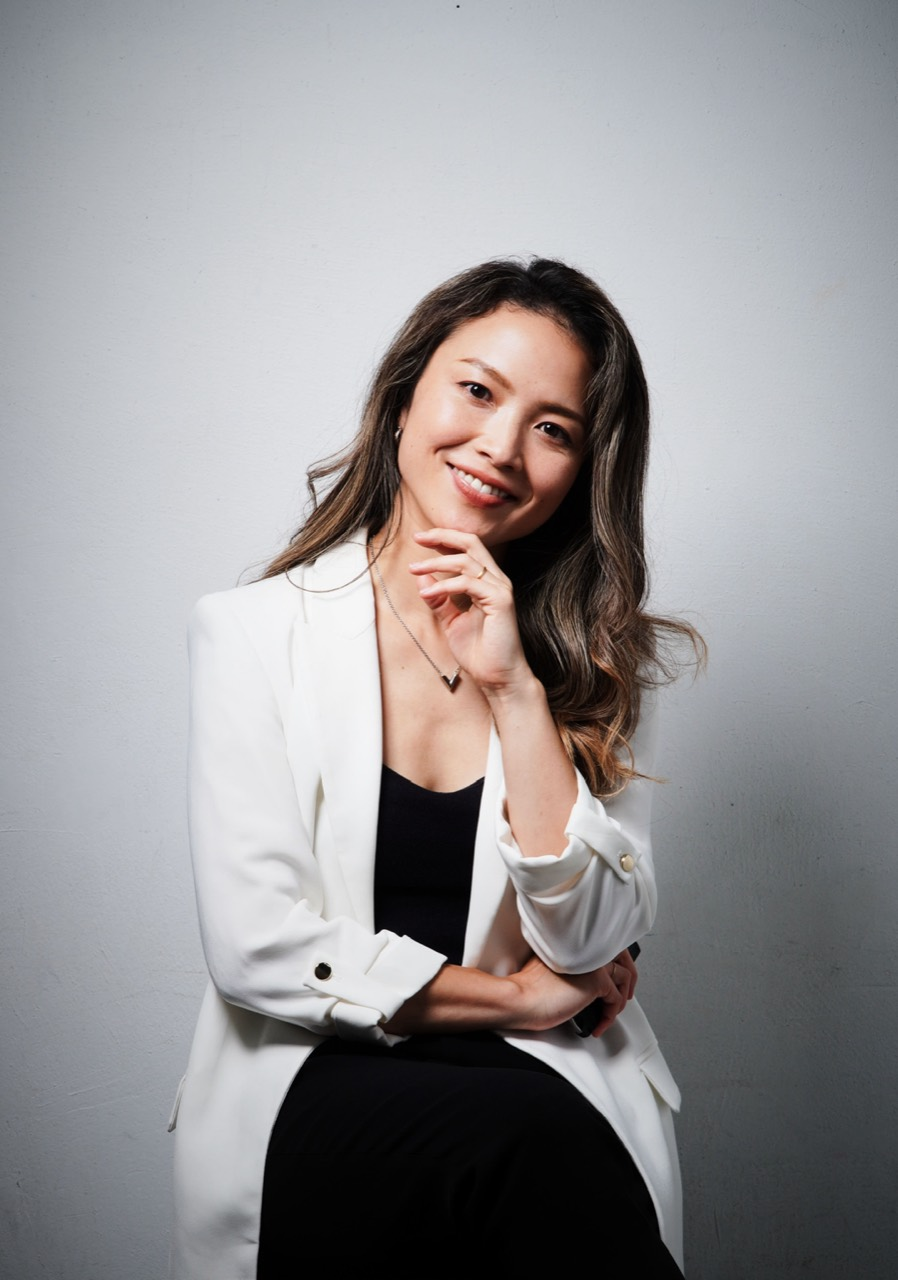
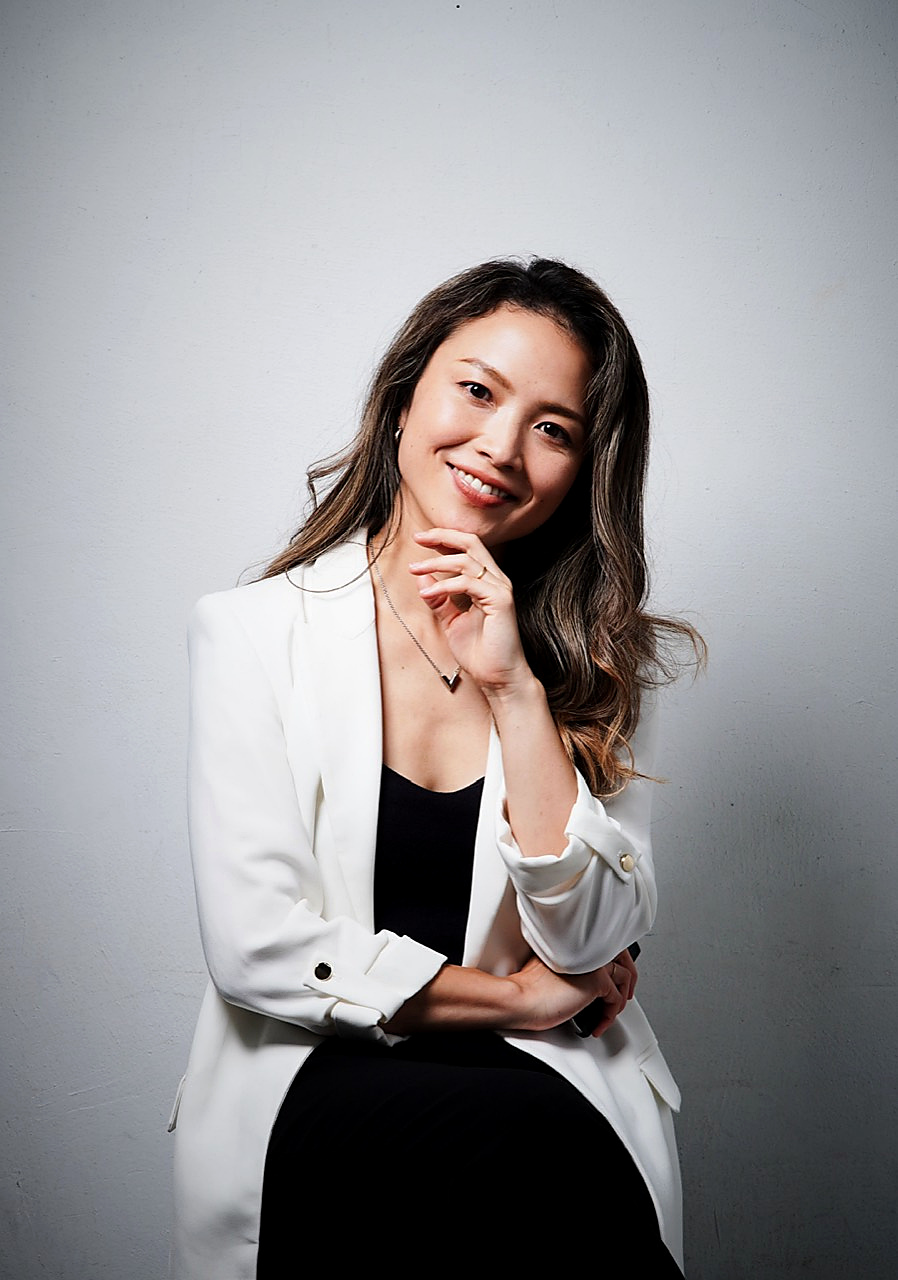
Add Yukiko Okuno ambassador and enhance portraits

diff --git a/ambassadors/yukiko-okuno/index.html b/ambassadors/yukiko-okuno/index.html
@@ -1,0 +1,134 @@
+<!doctype html>
+<html lang="ja">
+<head>
+  <meta charset="utf-8">
+  <meta name="viewport" content="width=device-width, initial-scale=1">
+  <title>奥野 由紀子 | Music Ambassador | Antica Music Academy</title>
+  <meta name="description" content="奥野 由紀子（Yukiko Okuno）のプロフィール。ANTICA Music Academy ミュージック・アンバサダー。">
+  <link rel="preconnect" href="https://fonts.googleapis.com">
+  <link rel="preconnect" href="https://fonts.gstatic.com" crossorigin>
+  <link href="https://fonts.googleapis.com/css2?family=Cormorant+Garamond:wght@400;600&family=Noto+Serif+JP:wght@400;500;600;700&display=swap" rel="stylesheet">
+  <style>
+    :root {
+      --bg: #f7f5f2;
+      --panel: #ffffff;
+      --panel-soft: #fffdf8;
+      --text: #2f2618;
+      --text-muted: #5e503e;
+      --line: #ddcfba;
+      --accent: #8b6b3f;
+      --accent-deep: #6f5532;
+      --max-width: 1120px;
+      --radius: 16px;
+      --shadow: 0 16px 38px rgba(70, 49, 20, 0.12);
+    }
+    * { box-sizing: border-box; }
+    html, body {
+      margin: 0;
+      padding: 0;
+      background:
+        radial-gradient(circle at 85% 0%, rgba(139, 107, 63, 0.1) 0%, rgba(139, 107, 63, 0) 42%),
+        linear-gradient(180deg, #ffffff 0%, #fbf8f3 100%);
+      color: var(--text);
+      font-family: "Noto Serif JP", "Hiragino Mincho ProN", "Yu Mincho", serif;
+      line-height: 1.75;
+      letter-spacing: 0.01em;
+    }
+    a { color: inherit; text-decoration: none; }
+    .container { width: min(100% - 40px, var(--max-width)); margin-inline: auto; }
+    .site-header {
+      position: sticky;
+      top: 0;
+      z-index: 20;
+      border-bottom: 1px solid rgba(139, 107, 63, 0.22);
+      background: rgba(255, 255, 255, 0.92);
+      backdrop-filter: blur(10px);
+    }
+    .header-inner { min-height: 76px; display: flex; align-items: center; justify-content: space-between; gap: 20px; }
+    .brand { display: inline-flex; align-items: center; gap: 12px; white-space: nowrap; }
+    .brand-icon { width: 28px; height: auto; display: block; }
+    .brand-wordmark { width: clamp(calc(140px + 12pt), calc(24vw + 12pt), calc(250px + 12pt)); height: auto; display: block; }
+    main { padding: 72px 0 94px; }
+    .profile-hero {
+      display: grid;
+      grid-template-columns: minmax(280px, 0.86fr) minmax(0, 1.14fr);
+      gap: 42px;
+      align-items: start;
+    }
+    .profile-photo {
+      overflow: hidden;
+      border: 1px solid rgba(139, 107, 63, 0.22);
+      border-radius: var(--radius);
+      background: var(--panel-soft);
+      box-shadow: var(--shadow);
+      aspect-ratio: 4 / 5;
+    }
+    .profile-photo img { width: 100%; height: 100%; object-fit: cover; object-position: center top; display: block; }
+    .photo-credit { margin: 10px 0 0; color: var(--text-muted); font-family: "Cormorant Garamond", serif; font-size: 0.86rem; letter-spacing: 0.04em; text-align: right; }
+    .profile-copy { padding-top: 10px; }
+    .eyebrow {
+      display: inline-block;
+      margin-bottom: 14px;
+      color: var(--accent);
+      font-family: "Cormorant Garamond", serif;
+      font-size: 1rem;
+      letter-spacing: 0.18em;
+      text-transform: uppercase;
+      font-style: italic;
+    }
+    h1 { margin: 0 0 6px; font-size: clamp(2.1rem, 4vw, 3.6rem); font-weight: 500; line-height: 1.35; letter-spacing: 0.06em; }
+    .name-en { display: block; margin-bottom: 22px; color: var(--accent); font-family: "Cormorant Garamond", serif; font-size: clamp(1.35rem, 2.8vw, 2rem); }
+    .official-link { display: inline-flex; margin-bottom: 24px; padding: 11px 20px; border-radius: 999px; color: #fff; background: linear-gradient(120deg, #9a7751, #7c6039); font-weight: 700; }
+    .tags { display: flex; flex-wrap: wrap; gap: 10px; margin: 0 0 28px; padding: 0; list-style: none; }
+    .tags li { border: 1px solid rgba(139, 107, 63, 0.34); border-radius: 999px; padding: 7px 13px; color: var(--accent); background: rgba(255, 253, 248, 0.82); font-size: 0.86rem; }
+    .profile-body { border-top: 1px solid var(--line); padding-top: 28px; }
+    .profile-body p { margin: 0 0 18px; color: var(--text-muted); font-size: 1rem; }
+    .back-link { display: inline-flex; margin-top: 18px; color: var(--accent); text-decoration: underline; text-underline-offset: 4px; }
+    @media (max-width: 860px) {
+      main { padding-top: 46px; }
+      .profile-hero { grid-template-columns: 1fr; gap: 28px; }
+      .profile-photo-wrap { max-width: 520px; width: 100%; margin-inline: auto; }
+    }
+    @media (max-width: 640px) {
+      .header-inner { min-height: 66px; }
+      .container { width: min(100% - 32px, var(--max-width)); }
+    }
+  </style>
+</head>
+<body>
+  <header class="site-header">
+    <div class="container header-inner">
+      <a class="brand" href="../../index.html" aria-label="Antica Music Academy トップページへ戻る">
+        <img class="brand-icon" src="../../LOGO.svg" alt="" aria-hidden="true">
+        <img class="brand-wordmark" src="../../アンティカ音楽学院.svg" alt="アンティカ音楽学院">
+      </a>
+    </div>
+  </header>
+
+  <main>
+    <div class="container profile-hero">
+      <div class="profile-photo-wrap">
+        <div class="profile-photo">
+          <img src="../../images/Yukiko_Okuno.jpg" alt="奥野 由紀子">
+        </div>
+        <p class="photo-credit">© Junichiro Matsuo</p>
+      </div>
+      <article class="profile-copy">
+        <span class="eyebrow">Music Ambassador</span>
+        <h1>奥野 由紀子</h1>
+        <span class="name-en">Yukiko Okuno</span>
+        <a class="official-link" href="https://lit.link/yukikookuno" target="_blank" rel="noopener noreferrer">公式サイトを見る ↗</a>
+        <ul class="tags"><li>Alto Flute</li><li>Flute</li><li>Orchestra</li><li>Community</li></ul>
+        <div class="profile-body">
+          <p>アルトフルート・スペシャリスト、東京女子管弦楽団フルート奏者。大阪府箕面市出身。神戸山手女子高等学校音楽科を経て、桐朋学園大学音楽学部卒業。同大学研究科、The Flute Studio（英国）修了。</p>
+          <p>第21回日本フルートコンヴェンションコンクール アルトフルート部門第1位、ブルガリア国立ソフィアフィルハーモニック管弦楽団コンチェルトマスタークラス第1位、J-FOSフルートアンサンブルコンクール第1位ならびに大賞など、多数の受賞歴を持つ。ブルガリア国立ソフィア管弦楽団、ウクライナキーウ交響楽団などとも共演。</p>
+          <p>これまでにフルートを阿野由希子、中野幸代、神田明、Trevor Wyeの各氏に師事。テレビ朝日「芸能人格付けチェック」やラジオ番組など、メディアにも積極的に出演している。</p>
+          <p>2019年に1stソロアルバム「Colour of Dream」を、2024年に2ndソロアルバム「Grace」をメジャーリリース。2024年から毎年アルトフルートのリサイタルを開催し、好評を得ている。</p>
+          <p>2025年より、フルートが中心となるバンド「ゆきんこバンド」を結成。ライブハウスのほか地域イベント等にも出演し、現在は関東圏を中心にソロ、アンサンブル、オーケストラ奏者として活動中。また、地域経済団体（青年会議所）にも所属し、地域活性化事業にも携わっている。</p>
+        </div>
+        <a class="back-link" href="../../index.html#endorsing-artists">トップページへ戻る</a>
+      </article>
+    </div>
+  </main>
+</body>
+</html>

diff --git a/index.html b/index.html
@@ -703,6 +703,18 @@
       transition: transform 0.45s ease;
     }
 
+    .artist-photo-credit {
+      position: absolute;
+      right: 10px;
+      bottom: 8px;
+      padding: 2px 7px;
+      background: rgba(255, 255, 255, 0.78);
+      color: var(--text-muted);
+      font-family: "Cormorant Garamond", serif;
+      font-size: 0.72rem;
+      line-height: 1;
+      letter-spacing: 0.04em;
+    }
     .artist-photo-focus--kayoko {
       transform: scale(1.44) translateY(-7%);
       transform-origin: center top;
@@ -718,6 +730,10 @@
       transform-origin: center top;
     }
 
+    .artist-photo-focus--yukiko {
+      transform: scale(1.28) translateY(-6%);
+      transform-origin: center top;
+    }
     .artist-photo-zoom {
     transform: scale(1.6) translateY(-8%);
     transform-origin: center top;
@@ -725,7 +741,6 @@
     .artist-card:hover .artist-photo img {
     transform: none;
 }
-
 .artist-card:hover .artist-photo img.artist-photo-focus--kayoko {
     transform: scale(1.44) translateY(-7%);
 }
@@ -738,6 +753,9 @@
     transform: scale(1.92) translateY(-22%);
 }
 
+    .artist-card:hover .artist-photo img.artist-photo-focus--yukiko {
+      transform: scale(1.28) translateY(-6%);
+    }
 .artist-card:hover .artist-photo-zoom {
     transform: scale(1.65) translateY(-6%);
 }
@@ -1230,6 +1248,21 @@
           <img class="ambassador-logo" src="images/music-ambassador-logo.png" alt="Music Ambassador">
         </div>
         <div class="artist-grid artist-grid--preview">
+          <!-- ARTIST: 奥野 由紀子 -->
+          <article class="artist-card">
+            <a class="artist-card-link" href="ambassadors/yukiko-okuno/">
+              <div class="artist-photo">
+                <img class="artist-photo-focus--yukiko" src="images/Yukiko_Okuno.jpg" alt="奥野 由紀子" loading="lazy">
+                <span class="artist-photo-credit">© Junichiro Matsuo</span>
+              </div>
+              <div class="artist-body">
+                <h3>奥野 由紀子</h3>
+                <span class="artist-name-en">Yukiko Okuno</span>
+                <p class="artist-bio">第21回日本フルートコンヴェンションコンクール アルトフルート部門第1位。東京女子管弦楽団フルート奏者として、国内外の共演、ソロアルバム、地域文化活動まで幅広く活躍しています。</p>
+                <span class="artist-link-label">View Profile</span>
+              </div>
+            </a>
+          </article>
           <!-- ARTIST: くどう きよこ -->
           <article class="artist-card">
             <a class="artist-card-link" href="ambassadors/kiyoko-kudo/">
@@ -1239,7 +1272,7 @@
               <div class="artist-body">
                 <h3>くどう きよこ</h3>
                 <span class="artist-name-en">Kiyoko Kudo</span>
-                <p class="artist-bio">ANTICA Music Academyの理念に共鳴し、音楽文化を通じた豊かな出会いと学びを支えるミュージック・アンバサダー。感性と表現を次世代へつなぐ活動を応援しています。</p>
+                <p class="artist-bio">文化放送スーパーオーディションでグランプリを受賞し、デュオ「アンティカ」でメジャーデビュー。音楽療法士としての知見も重ね、ボイスタッチセラピー®で感性と表現力を育みます。</p>
                 <span class="artist-link-label">View Profile</span>
               </div>
             </a>
@@ -1253,7 +1286,7 @@
               <div class="artist-body">
                 <h3>小宮 明日翔</h3>
                 <span class="artist-name-en">Asuka Komiya</span>
-                <p class="artist-bio">幼少期から子役としてTV・CM・映画・声優・ミュージカルで活躍。舞台芸術支援団体SASPの活動を通じ、子どもたちへ文化芸術の機会を届けています。</p>
+                <p class="artist-bio">ミュージカル「ピーターパン」「レ・ミゼラブル」などに出演。子役経験を原点に、一般社団法人SASP理事として子どもたちの舞台芸術体験を広げています。</p>
                 <span class="artist-link-label">View Profile</span>
               </div>
             </a>
@@ -1267,7 +1300,7 @@
               <div class="artist-body">
                 <h3>手塚 佳代子</h3>
                 <span class="artist-name-en">Kayoko Tezuka</span>
-                <p class="artist-bio">幼少期よりピアノ・バレエ・声楽を学び、舞台・ミュージカル・教育活動まで幅広く活躍。美しい日本語や表現の力を次世代へ伝えるアーティストです。</p>
+                <p class="artist-bio">劇団四季で『美女と野獣』などディズニー作品を中心に出演。国連クラシックライブ主演や全国の児童指導など、舞台表現と教育の両面で活躍しています。</p>
                 <span class="artist-link-label">View Profile</span>
               </div>
             </a>
@@ -1281,7 +1314,7 @@
               <div class="artist-body">
                 <h3>富永 峻</h3>
                 <span class="artist-name-en">Shun Tominaga</span>
-                <p class="artist-bio">欧州で研鑽を積んだ日本人ピアニスト。ソロ、オペラ伴奏、室内楽、舞台出演など幅広く活動し、公開レッスンや室内楽指導にも力を注いでいます。</p>
+                <p class="artist-bio">欧州で研鑽を積み、ソロ、オペラ伴奏、室内楽、舞台出演まで幅広く活動するピアニスト。聴く人の感情に寄り添う音色と誠実な音楽性で表現を届けます。</p>
                 <span class="artist-link-label">View Profile</span>
               </div>
             </a>
@@ -1295,7 +1328,7 @@
               <div class="artist-body">
                 <h3>増田 香穂</h3>
                 <span class="artist-name-en">Kaho Masuda</span>
-                <p class="artist-bio">桐朋学園大学大学院ピアノ専攻修了。演奏活動、音楽サロンのプロデュース、教育・起業領域を横断し、クラシック音楽の新しい届け方を模索しています。</p>
+                <p class="artist-bio">桐朋学園大学大学院ピアノ専攻修了。中学2年から本格的にピアノを始め、短期間で最難関音楽大学へ進んだ異色の経歴を持つピアニストです。</p>
                 <span class="artist-link-label">View Profile</span>
               </div>
             </a>
@@ -1309,7 +1342,7 @@
               <div class="artist-body">
                 <h3>水野 彰子</h3>
                 <span class="artist-name-en">Shoko Mizuno</span>
-                <p class="artist-bio">東京藝術大学大学院を首席で修了。アンサンブルピアニストとして国内外の舞台、オペラ、音楽祭、アウトリーチ活動など幅広く活躍しています。</p>
+                <p class="artist-bio">東京藝術大学大学院を首席で修了し、大学院アカンサス音楽賞を受賞。新国立劇場オペラのピアニスト、コレペティトゥアとしても活動しています。</p>
                 <span class="artist-link-label">View Profile</span>
               </div>
             </a>

diff --git a/artists.html b/artists.html
@@ -321,6 +321,18 @@
       transition: transform 0.45s ease;
     }
 
+    .artist-photo-credit {
+      position: absolute;
+      right: 10px;
+      bottom: 8px;
+      padding: 2px 7px;
+      background: rgba(255, 255, 255, 0.78);
+      color: var(--text-muted);
+      font-family: "Cormorant Garamond", serif;
+      font-size: 0.72rem;
+      line-height: 1;
+      letter-spacing: 0.04em;
+    }
     .artist-photo-focus--kayoko {
       transform: scale(1.44) translateY(-7%);
       transform-origin: center top;
@@ -336,10 +348,13 @@
       transform-origin: center top;
     }
 
+    .artist-photo-focus--yukiko {
+      transform: scale(1.28) translateY(-6%);
+      transform-origin: center top;
+    }
     .artist-card:hover .artist-photo img {
       transform: none;
     }
-
     .artist-card:hover .artist-photo img.artist-photo-focus--kayoko {
       transform: scale(1.44) translateY(-7%);
     }
@@ -352,6 +367,9 @@
       transform: scale(1.92) translateY(-22%);
     }
 
+    .artist-card:hover .artist-photo img.artist-photo-focus--yukiko {
+      transform: scale(1.28) translateY(-6%);
+    }
     .artist-photo.is-missing::before {
       content: "";
       position: absolute;
@@ -478,6 +496,20 @@
         -->
         <div class="artist-grid">
 
+          <!-- ARTIST: 奥野 由紀子 -->
+          <article class="artist-card">
+            <a class="artist-card-link" href="ambassadors/yukiko-okuno/">
+              <div class="artist-photo">
+                <img class="artist-photo-focus--yukiko" src="images/Yukiko_Okuno.jpg" alt="奥野 由紀子" loading="lazy">
+                <span class="artist-photo-credit">© Junichiro Matsuo</span>
+              </div>
+              <div class="artist-body">
+                <h3>奥野 由紀子</h3>
+                <p class="artist-bio">アルトフルート・スペシャリスト、東京女子管弦楽団フルート奏者。国内外での共演、受賞、ソロアルバムリリースを重ね、地域文化活動にも携わっています。</p>
+                <span class="artist-link-label">View Profile</span>
+              </div>
+            </a>
+          </article>
           <!-- ARTIST: 富永 峻 -->
           <article class="artist-card">
             <a class="artist-card-link" href="https://shuntominaga.org/" target="_blank" rel="noopener noreferrer">
